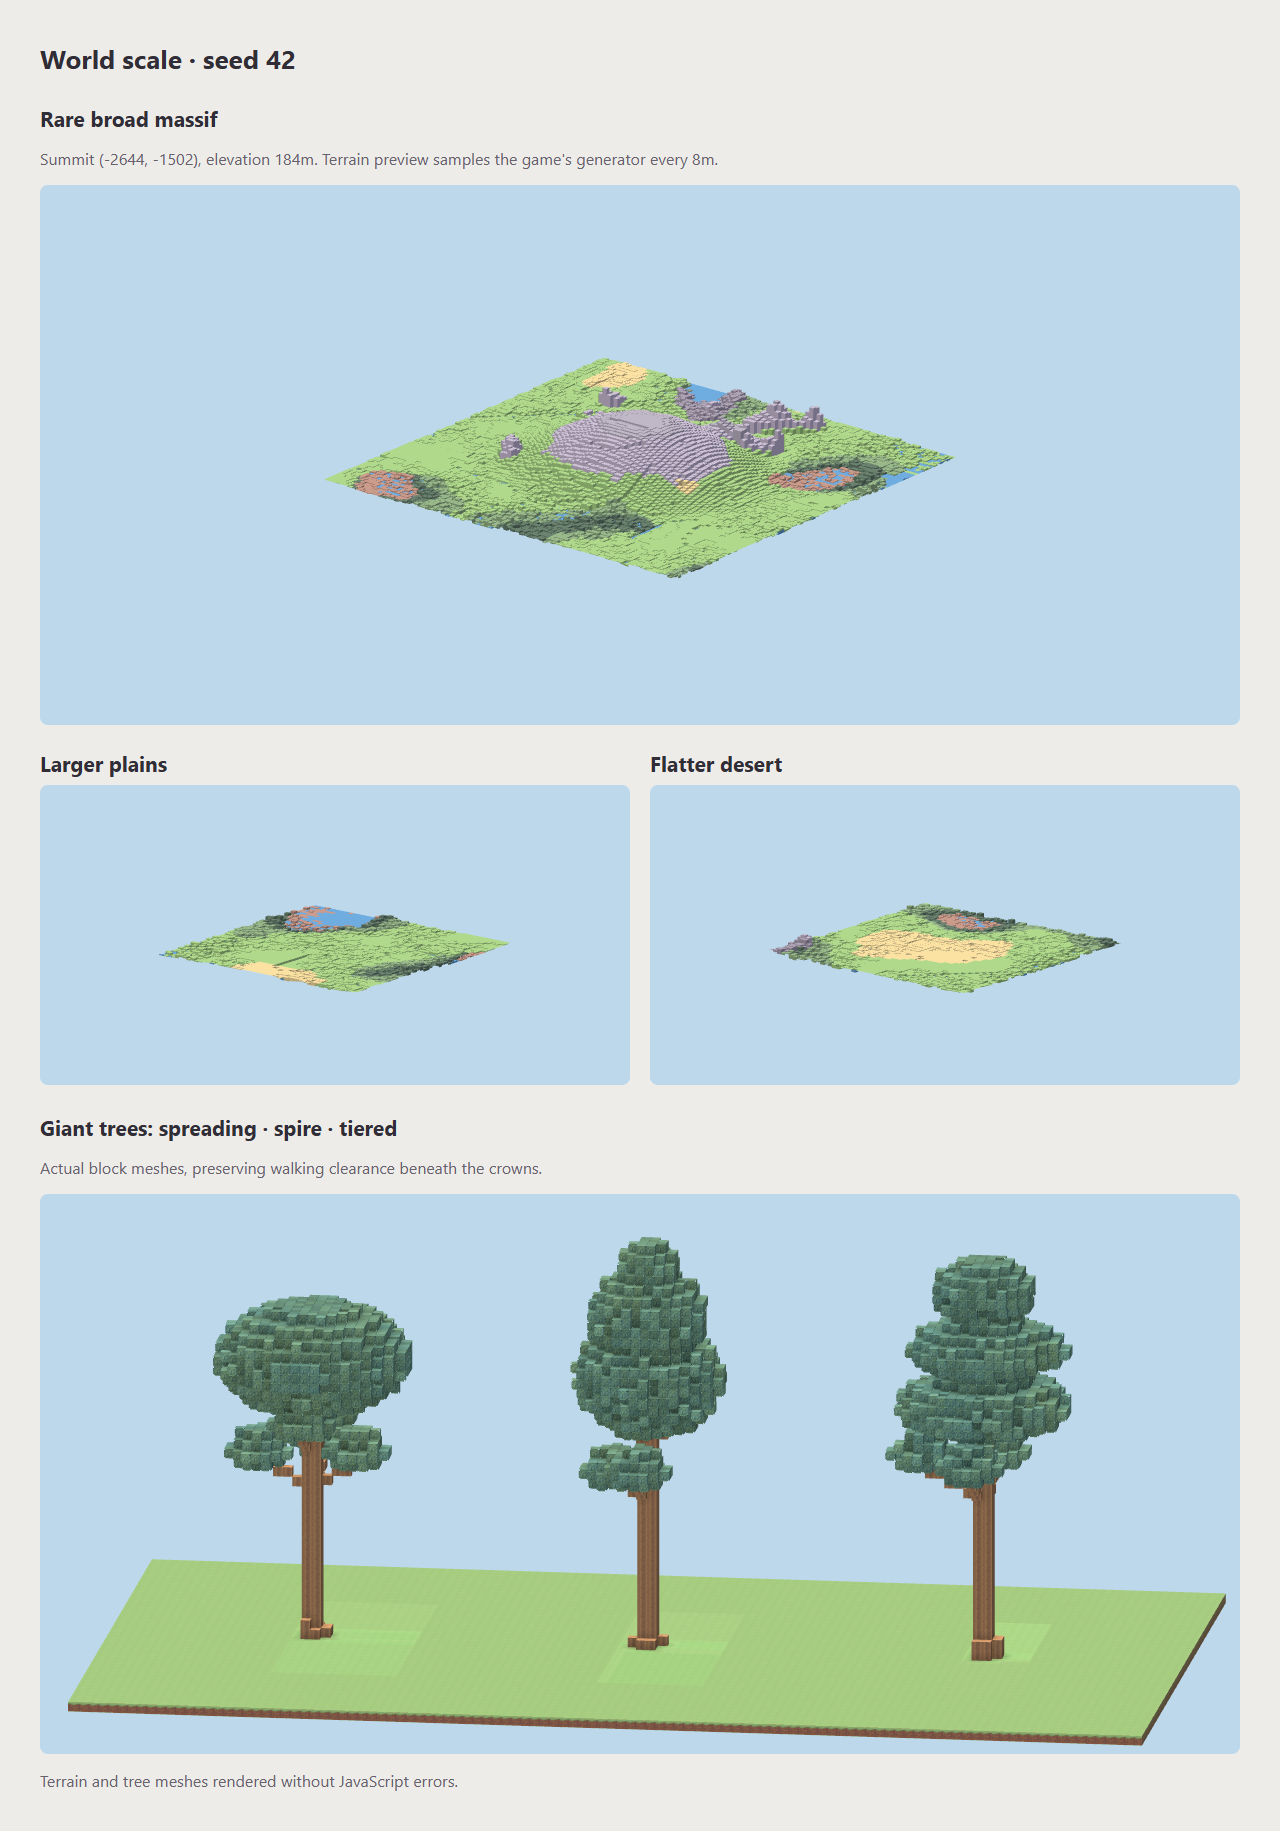
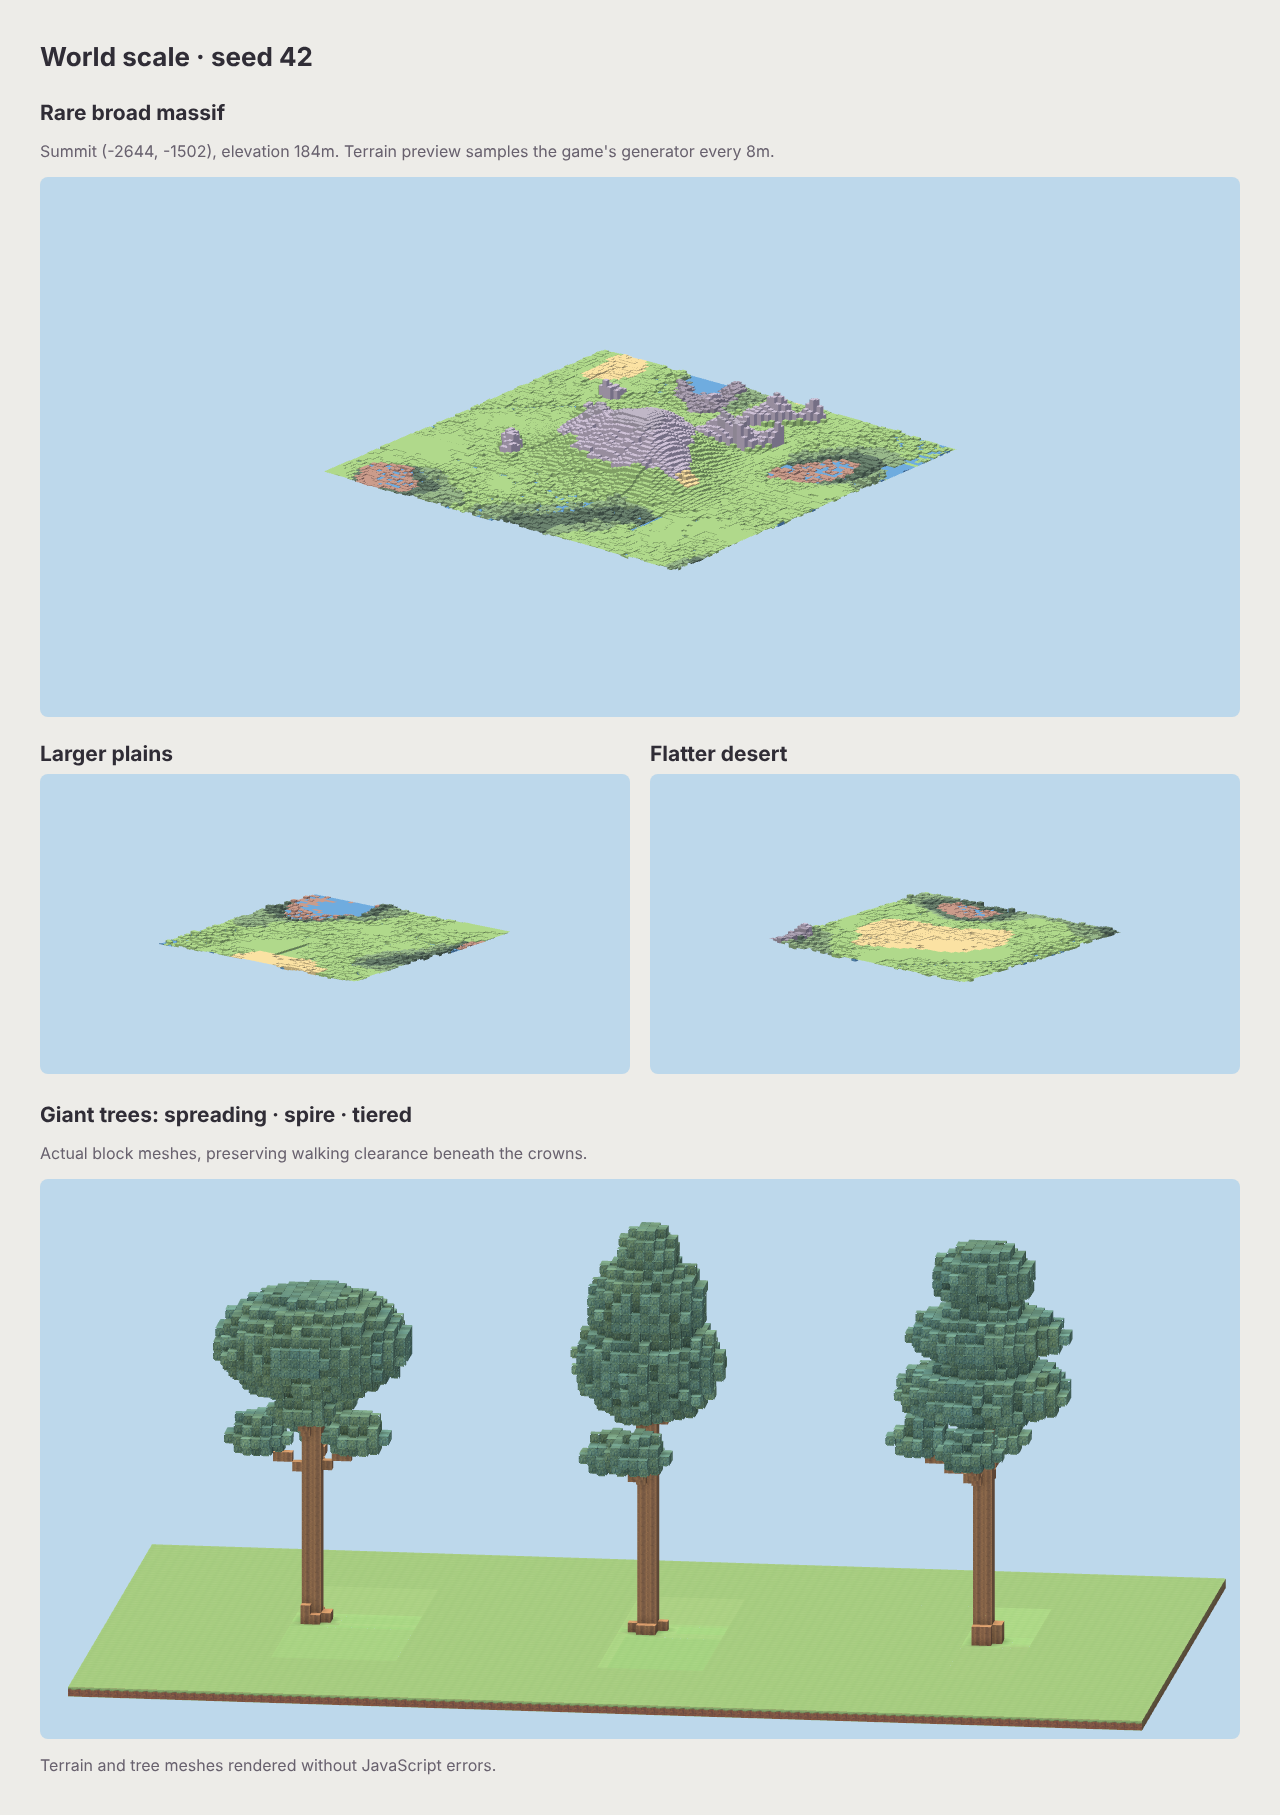
Lighter land to draw; huge peaks less blobby
The game broke near the new huge peaks: twice the triangles to draw.

- ChunkMesher's sky fill treated the padded copy's four corner columns
  as open air from top to bottom, so any cave touching a chunk's corner
  counted as open to the sky and was drawn to the horizon. Under a huge
  peak, cave-riddled from its roots up, that was most of them. Now
  surface triangles are about half what they were at home, and a tenth
  at a peak (1.0M before ChatGPT's land, 2.2M after, 188k now).
- Ordinary caves stop at y 120: a tall mountain's rock is solid above.
- Huge peaks: an uneven outline (two, three and five lobes), rounded
  ridges and valleys down the flanks, a lower second summit, and a
  narrower top. The peak itself never steps more than four blocks.

Claude-Session: https://claude.ai/code/session_01BDPPETmnZNNAGW9Zfek1yD

diff --git a/src/world/massifs.js b/src/world/massifs.js
@@ -5,10 +5,18 @@ import { skyAt, TOWER_OUT } from './skyKingdom.js';
 /**
  * Now and then a huge mountain (WORLD-1: "wider and bigger mountains, and now
  * and then a Kilimanjaro"): one chance in each 1024-block region, a broad
- * shoulder with a summit near the top of the world. Only in land of the
- * newer shape (biomeMap.js's TERRAIN).
+ * shoulder with a summit near the top of the world.
+ *
+ * Not a dome (reported: "mountains look too blobby, they could benefit from
+ * some randomness"): its outline bulges and pinches, ridges run down its
+ * sides with valleys between them, and a lower second summit stands off to
+ * one side. All of it broad — a ridge is tens of blocks across — so it reads
+ * from the horizon without making the slopes ragged up close, which is what
+ * costs a phone the most to draw.
  */
 export const MASSIF_REGION = 1024;
+/** Ridges: how far apart, crest to crest, and how far a valley between them drops. */
+const RIDGE_FREQ = 1 / 64, VALLEY = 26;
 const smooth = (t) => t * t * (3 - 2 * t);
 
 function roll(x, z, seed) {
@@ -35,36 +43,77 @@ export function massifSite(map, rx, rz) {
 
 function placeMassif(map, rx, rz) {
   const seed = map.seed ?? 1;
-  if (roll(rx, rz, seed ^ 0x3281) >= 0.4) return null;
-  const x = rx * MASSIF_REGION + 512 + Math.floor(roll(rx, rz, seed ^ 0x12c3) * 193) - 96;
-  const z = rz * MASSIF_REGION + 512 + Math.floor(roll(rx, rz, seed ^ 0x75a1) * 193) - 96;
-  const radius = 210 + Math.floor(roll(rx, rz, seed ^ 0x48d3) * 71);
+  const r = (salt) => roll(rx, rz, seed ^ salt);
+  if (r(0x3281) >= 0.4) return null;
+  const x = rx * MASSIF_REGION + 512 + Math.floor(r(0x12c3) * 193) - 96;
+  const z = rz * MASSIF_REGION + 512 + Math.floor(r(0x75a1) * 193) - 96;
+  const radius = 210 + Math.floor(r(0x48d3) * 71);
+  // The outline: two, three and five bulges round it, each turned its own way.
+  const lobes = [[2, 0.1, r(0x51a3) * Math.PI * 2], [3, 0.16, r(0x62b4) * Math.PI * 2], [5, 0.07, r(0x73c5) * Math.PI * 2]];
+  // As far as a bulge reaches: still inside the region (512 - 96 > 280 × 1.33).
+  const outer = radius * (1 + lobes.reduce((s, [, a]) => s + a, 0));
   if (inPast(x, map.centreX) || inFuture(x, map.centreX)) return null;
   // Its summit stands above the floating island's floor, so never under the
   // island or its towers.
   const sky = skyAt({ seed, biomes: map });
-  if (Math.hypot(x - sky.x, z - sky.z) < radius + TOWER_OUT + 16) return null;
+  if (Math.hypot(x - sky.x, z - sky.z) < outer + TOWER_OUT + 16) return null;
   // Not out at sea.
   for (const dx of [-radius, 0, radius]) for (const dz of [-radius, 0, radius]) {
     if (map.climate(x + dx, z + dz).wet > 0.87) return null;
   }
-  // A plateau-and-shoulder shape, broad enough to read from the horizon.
-  return { rx, rz, x, z, radius, peak: 174 + Math.floor(roll(rx, rz, seed ^ 0x49a7) * 13) };
+  const peak = 174 + Math.floor(r(0x49a7) * 13);
+  // The second summit: on the main one's shoulder, a third of the way out.
+  const turn = r(0x84d6) * Math.PI * 2, out = radius * (0.32 + r(0x95e7) * 0.1);
+  const second = {
+    x: x + Math.cos(turn) * out, z: z + Math.sin(turn) * out,
+    radius: radius * (0.46 + r(0xa6f8) * 0.1), peak: peak - 16 - Math.floor(r(0xb709) * 14),
+  };
+  return { rx, rz, x, z, radius, outer, peak, lobes, second };
 }
 
-/** A smooth 0..1 shoulder-and-summit profile at a column, or null outside a peak. */
+/**
+ * 0..1 at `distance` (1 at the rim) from a summit. A dome raised to a power:
+ * a narrower top and slopes that sweep out at the foot, rather than a
+ * table-topped blob.
+ */
+function rise(distance) {
+  return distance >= 1 ? 0 : (1 - smooth(Math.max(0, (distance - 0.05) / 0.95))) ** 1.8;
+}
+
+/**
+ * A huge peak's say at a column, or null outside one: `influence` 0..1 (how
+ * far it takes the land over, which biomeMap uses for its mountain blend),
+ * and what raiseFor needs.
+ */
 export function massifAt(map, x, z) {
   if (inPast(x, map.centreX) || inFuture(x, map.centreX)) return null;
   const s = massifSite(map, Math.floor(x / MASSIF_REGION), Math.floor(z / MASSIF_REGION));
   if (!s) return null;
-  const distance = Math.hypot((x - s.x) / s.radius, (z - s.z) / (s.radius * 0.85));
-  if (distance >= 1) return null;
-  let influence = 1 - smooth(Math.max(0, (distance - 0.1) / 0.9));
+  const dx = x - s.x, dz = z - s.z;
+  if (Math.abs(dx) >= s.outer || Math.abs(dz) >= s.outer) return null;
+  const theta = Math.atan2(dz, dx);
+  let reach = 1;
+  for (const [k, a, turn] of s.lobes) reach += a * Math.sin(k * theta + turn);
+  const distance = Math.hypot(dx / s.radius, dz / (s.radius * 0.85)) / reach;
+  let main = rise(distance);
+  let side = rise(Math.hypot(x - s.second.x, z - s.second.z) / s.second.radius);
+  if (!main && !side) return null;
   // Never on the starting plot, rising only well clear of it.
   if (map.homePull > 0) {
     const away = Math.hypot(x - map.centreX, z - map.centreZ);
     if (away <= 180) return null;
-    influence *= smooth(Math.min(1, (away - 180) / 160));
+    const fade = smooth(Math.min(1, (away - 180) / 160));
+    main *= fade; side *= fade;
   }
-  return { ...s, influence };
+  // Ridges down the flanks with valleys between, none on the summit itself:
+  // a crest where the noise crosses zero, rounded rather than knife-edged,
+  // which would step the ground several blocks at a time.
+  const n = map.warp(x * RIDGE_FREQ + 913, z * RIDGE_FREQ - 577);
+  const valley = VALLEY * n * n * smooth(Math.min(1, Math.max(0, (distance - 0.06) / 0.4)));
+  return { influence: Math.max(main, side), main, side, peak: s.peak - valley, sidePeak: s.second.peak - valley };
+}
+
+/** The ground at a column raised by a huge peak's say there (massifAt). */
+export function raiseFor(h, m) {
+  return Math.max(h, h + Math.max(0, m.peak - h) * m.main, h + Math.max(0, m.sidePeak - h) * m.side);
 }

diff --git a/src/world/ChunkGen.js b/src/world/ChunkGen.js
@@ -9,6 +9,7 @@ import { stampSky } from './skyKingdom.js';
 import { inFuture, stampFuture, FUTURE_GROUND } from './future.js';
 import { stampRivals, rivalSites } from './rivals.js';
 import { deepCaveColumn, stampDeepCaves, stampCaveRuins } from './deepCaves.js';
+import { raiseFor } from './massifs.js';
 
 /** Which BIOMES entry is the short range — used for its streams. */
 const MOUNTAINS1_INDEX = BIOME_INDEX.get('mountains1');
@@ -199,7 +200,7 @@ export class ChunkGen {
     // world settling to the same height regardless of what it's in.
     const flat = this.flatFactor(x, z, weights);
     if (flat > 0) h += (base - h) * flat;
-    if (massif) h += Math.max(0, massif.peak - h) * massif.influence;
+    if (massif) h = raiseFor(h, massif);
     h = Math.round(h);
     // A river or a mountain stream cuts the ground down towards its bed
     // rather than being painted on afterwards, so the banks slope into it
@@ -335,6 +336,7 @@ export class ChunkGen {
       this._caveSpans = deepCaveColumn(this, x, z);
     }
     if (this._caveSpans.length && this._caveSpans.some((s) => y >= s.floor && y <= s.ceiling)) return AIR;
+    if (y > CAVE_TOP) return NOT_CARVED;
     const cavern = biomeIndex === MOUNTAINS2_INDEX && y < CAVERN_Y_MAX;
     const width = cavern ? CAVERN_WIDTH : CAVE_WIDTH;
     const n = this.cave(x * CAVE_FREQ, y * CAVE_FREQ_Y, z * CAVE_FREQ);
@@ -839,6 +841,10 @@ const CAVE_FREQ_Y = 0.09;
 const CAVE_WIDTH = 0.05;
 // How many blocks of solid roof always sit between a cave and the surface.
 const CAVE_SURFACE_BUFFER = 6;
+// Nor higher than this: a tall mountain's rock is solid above it. Carved
+// to the top, a huge peak was holes from its roots to its summit, breaking
+// out all over its slopes — twice the land to draw, and phones gave up.
+const CAVE_TOP = 120;
 // Never carve within this many blocks of bedrock — a cave with no floor
 // underneath it is a hole, not a cave.
 const CAVE_FLOOR = 3;

diff --git a/src/world/ChunkMesher.js b/src/world/ChunkMesher.js
@@ -964,6 +964,12 @@ export class ChunkMesher {
       if (sky[n]) return at;
       const id = vol[n];
       if (id < 0 || !OPEN[id]) return at;
+      // The padding's four corner columns hold no blocks (fillPadded fills
+      // only the edges), so they read as air from top to bottom: a shaft of
+      // sky down every corner, into any cave that touched one. Under a big
+      // mountain that was most of its caves drawn to the horizon.
+      const cx = n % PAD, cz = ((n / PAD) | 0) % PAD;
+      if ((cx === 0 || cx === PAD - 1) && (cz === 0 || cz === PAD - 1)) return at;
       sky[n] = 1;
       stack[at] = n;
       return at + 1;

diff --git a/docs/TASKS.md b/docs/TASKS.md
@@ -67,6 +67,7 @@ Checked by tests, most in a test browser, none on a real iPhone.
 
 | ID | What | PR |
 |---|---|---|
+| NOW-21 | The game was breaking with the new land: far fewer triangles to draw everywhere (about half at home, a tenth at a huge peak); huge peaks less blobby, with an uneven outline, ridges and valleys, and a second summit. | #234 |
 | NOW-20 | Saving: a failed upload says so once, tries again by itself, and says when it's up; a big world's backup copy fits now. | #233 |
 | NOW-19 | The new mountains, plains and giant trees in old worlds too; the rounder starter house, townhouse and cottages. | #232 |
 | NOW-18 | ChatGPT's second round, checked and merged: saving keeps your backup when a world goes missing from the list, Save and leave stays put if the save failed, villagers no longer climb onto roofs, compost into a farm, raiders don't vanish at a pond, huge mountains, broader plains, flatter deserts and three shapes of giant tree. | #231 |
@@ -143,7 +144,7 @@ it produce 50% more; none of them carries or builds anything.
 
 | ID | What | Who | Status |
 |---|---|---|---|
-| WORLD-1 | Wider and bigger mountains, and now and then a Kilimanjaro. (The world is 200 blocks tall.) Wider ranges; in about 4 of every 10 areas of 1,024 blocks, a huge peak 420 to 560 blocks across rising to 174–186 high, never near the start or under the floating island. In every world, old ones too (the owner said yes). | ChatGPT, Claude | done, #231, #232 |
+| WORLD-1 | Wider and bigger mountains, and now and then a Kilimanjaro. (The world is 200 blocks tall.) Wider ranges; in about 4 of every 10 areas of 1,024 blocks, a huge peak 420 to 560 blocks across rising to 174–186 high, never near the start or under the floating island; an uneven outline, ridges and valleys, and a lower second summit ("mountains look too blobby", #234). In every world, old ones too (the owner said yes). | ChatGPT, Claude | done, #231, #232 |
 | WORLD-2 | Big trees. Giant trees now come in three shapes, spreading, spire and tiered, up to about 40 blocks of trunk. | ChatGPT, Claude | done, #231, #232 |
 | WORLD-3 | Bigger plains, flatter deserts. Plains and deserts about 28% wider, with gentler rises and bigger flat stretches. | ChatGPT, Claude | done, #231, #232 |
 
@@ -271,6 +272,8 @@ version is in `docs/history/status-and-testing.md`.
   the three giant tree shapes; watch villagers walk round houses; Add
   compost at a farm; Save and leave with no signal; build the new
   starter house; look for steps where your old world's land meets the new.
+- **The new land (NOW-21):** play near a huge peak and in a giant forest;
+  check the game doesn't break and the peaks look less like blobs.
 - **Saving (NOW-20):** play with no signal for a minute, see the message,
   then turn it back on and see "Saved to your account".
 
